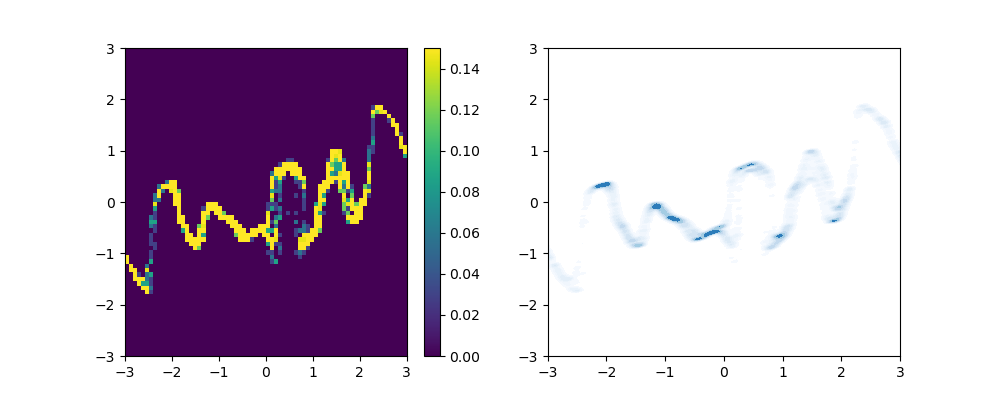
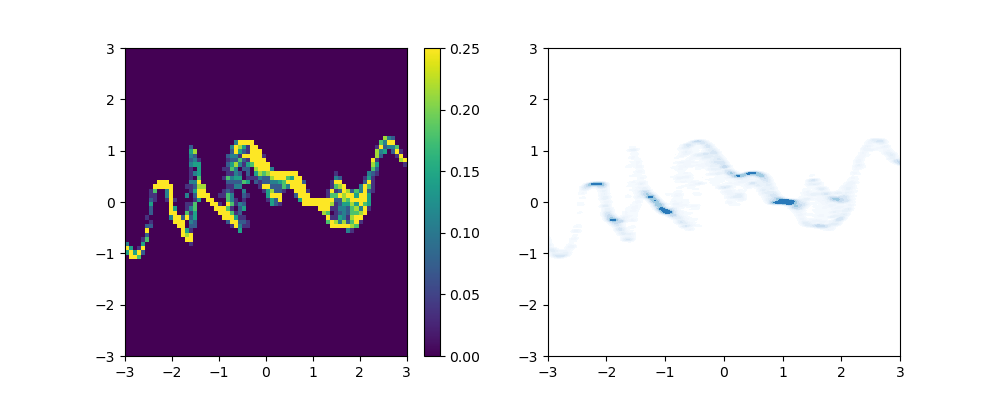
generic commit

diff --git a/scripts/transport/kvae_flow.py b/scripts/transport/kvae_flow.py
@@ -117,7 +117,7 @@ class Comp_transport_model:
         y_mean = geq_1d(torch.tensor(param_dict['y_mean'], device=self.device, dtype=self.dtype))
         y_var = geq_1d(torch.tensor(param_dict['y_var'], device=self.device, dtype=self.dtype))
 
-        z_mean = self.map_mean(x_mu, y_eta, y_mean,Lambda_mean, X_mean, fit_kernel)
+        z_mean = self.map_mean(x_mu, y_eta, y_mean, Lambda_mean, X_mean, fit_kernel)
         z_var = self.map_var(x_mu, y_eta, y_mean, Lambda_var, X_var, fit_kernel)
 
         z = z_mean + z_var
@@ -126,8 +126,13 @@ class Comp_transport_model:
         if self.approx:
             y_approx = y_mean + y_var
 
-        param_dict = {'y_eta': y_eta, 'y_mean': y_mean + z_mean, 'y_var': y_var + z_var,
+        param_dict = {'y_eta': shuffle(y_eta), 'y_mean': y_mean + z_mean, 'y_var': y_var + z_var,
                        'x_mu': x_mu, 'y_approx': y_approx + z, 'y': torch.concat([x_mu, z + y_approx], dim=1)}
+
+        save_loc = f'../../data/kernel_transport/swiss_kflow/map_gen{step_idx}.png'
+        map_vec = param_dict['y'].detach().cpu().numpy()
+        sample_hmap(map_vec, save_loc, bins=75, bw_adjust= 0.25,
+                    d=2, range=[[-3, 3], [-3, 3]], vmax=.25)
 
         return param_dict
 
@@ -244,13 +249,11 @@ class CondTransportKernel(nn.Module):
         return z_mean
 
 
-    def map_var(self, x_mu, y_eta, y_mean, y_var):
+    def map_var(self, x_mu, y_eta, y_mean):
         if not self.approx:
             return 0 * y_eta
 
         y_mean = geq_1d(torch.tensor(y_mean, device=self.device, dtype=self.dtype))
-        #y_var = geq_1d(torch.tensor(y_var, device=self.device, dtype=self.dtype))
-
         w_var = torch.concat([x_mu, y_eta, y_mean], dim=1)
         Lambda_var = self.get_Lambda_var()
 
@@ -272,7 +275,7 @@ class CondTransportKernel(nn.Module):
         if self.approx:
             y_approx = y_mean + y_var
 
-        return_dict = {'y_eta': y_eta, 'y_mean': y_mean + z_mean, 'y_var': y_var + z_var,
+        return_dict = {'y_eta':  shuffle(y_eta), 'y_mean': y_mean + z_mean, 'y_var': y_var + z_var,
                        'x_mu': x_mu, 'y_approx': y_approx + z, 'y': torch.concat([x_mu, z + y_approx], dim = 1)}
         return return_dict
 
@@ -342,7 +345,8 @@ class CondTransportKernel(nn.Module):
 
 
         clear_plt()
-        sample_hmap(map_vec, 'spiral_hist.png', bins=75, bw_adjust= 0.2,
+        save_loc = f'../../data/kernel_transport/swiss_kflow/test_map_gen.png'
+        sample_hmap(map_vec, save_loc, bins=75, bw_adjust= 0.25,
                     d=2, range=[[-3, 3], [-3, 3]], vmax=.25)
         clear_plt()
         return self.mmd(map_vec, target)
@@ -371,7 +375,7 @@ def cond_kernel_transport(X_mu, Y_mu, Y_eta, params, n_iter = 10001,  iters = 0,
 
 
 def comp_cond_kernel_transport(X_mu, Y_mu, Y_eta, params, n_iter = 1001, n = 50,
-                               Y_eta_test = [], X_mu_test = [],Y_mu_test = [], f = .95):
+                               Y_eta_test = [], X_mu_test = [],Y_mu_test = [], f = 1):
     model_params = {'fit_kernel': [], 'Lambda_mean': [], 'X_mean': [], 'Lambda_var': [], 'X_var': []}
     iters = 0
     eps = .01
@@ -695,8 +699,8 @@ def run():
     ref_gen = sample_normal
     target_gen = sample_swiss_roll
     N = 1500
-    two_d_exp(ref_gen, target_gen, N, n_iter=101, plt_range=[[-3, 3], [-3, 3]], process_funcs=[], skip_idx=1,
-              slice_vals=[-1, 0, 1], slice_range=[-1.5, 1.5], exp_name='swiss_kflow', vmax=.25, n_transports=50)
+    two_d_exp(ref_gen, target_gen, N, n_iter=501, plt_range=[[-3, 3], [-3, 3]], process_funcs=[], skip_idx=1,
+              slice_vals=[], slice_range=[-1.5, 1.5], exp_name='swiss_kflow', vmax=.25, n_transports=5)
 
 
 if __name__=='__main__':
